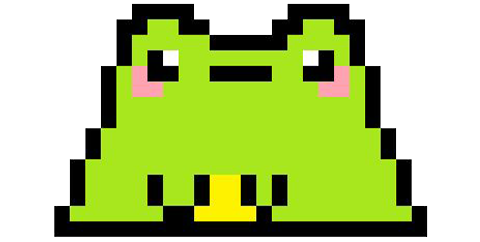
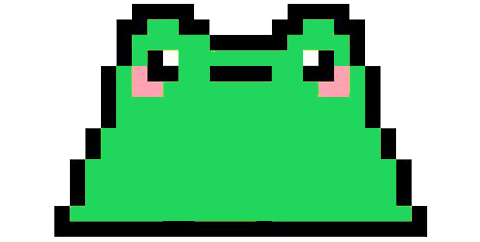
Filling out the README.md

diff --git a/mod-jam/js/script.js b/mod-jam/js/script.js
@@ -180,15 +180,16 @@ function drawStartScreen() {
     //Different Options
     noStroke();
     fill("#00eeffff");
-    rect(width / 2 - 100, height / 2 + 60, 200, 40); // Oracle button
+    //rect(x,y,w,h)
+    rect(width / 2 - 150, height / 2 + 60, 300, 40); // Oracle button
     fill("#ff0000ff");
-    rect(width / 2 - 100, height / 2 + 110, 200, 40); // Fortune button
+    rect(width / 2 - 150, height / 2 + 110, 300, 40); // Fortune button
     fill("#ff00e1ff");
-    rect(width / 2 - 100, height / 2 + 160, 200, 40); // Instructions button
+    rect(width / 2 - 150, height / 2 + 160, 300, 40); // Instructions button
     textSize(14);
     fill("#280085ff");
-    text("ORACLE", width / 2, height / 2 + 80);
-    text("FORTUNE", width / 2, height / 2 + 130);
+    text(" GREEK ORACLE", width / 2, height / 2 + 80);
+    text("CHINESE FORTUNE", width / 2, height / 2 + 130);
     text("INSTRUCTIONS", width / 2, height / 2 + 180);
 }
 //DRAWING END SCREEN COMPONENTS
@@ -219,7 +220,7 @@ function drawScore() {
     }
 
     //Drawing Score Bar
-    fill("#fffb00ff");
+    fill("#12db59ff");
     rect(30, 30, fillWidth, barHeight);
     noFill();
     stroke("#000000ff");
@@ -384,7 +385,7 @@ function moveTongue() {
 function drawFrog() {
     // Draw the tongue tip
     push();
-    fill("#ff0000");
+    fill("#ffffffff");
     noStroke();
     ellipse(frog.tongue.x, frog.tongue.y, frog.tongue.size);
     pop();

diff --git a/mod-jam/README.md b/mod-jam/README.md
@@ -1,35 +1,65 @@
-# TITLE OF PROJECT
+# FROG OF DESTINY
 
-AUTHOR NAME
+CAMELIA PITSILIS
 
 [View this project online](URL_FOR_THE_RUNNING_PROJECT)
 
 ## Description
 
-This description should help the reader understand what the program is, anything they should know to be able to experience it (controls, special features, etc.), and what the desired user experience is. For example:
+Frog of Destiny is a myth-inspired, frog tongue catching game where the player controls a
+mystical frog that seeks either wisdom or fortune.
 
-> *The Mayor of Clown Town* is a simulator experience that allows the user to control a small town populated entirely by clowns.
+ There are two modes: Greek Oracle and Chinese Fortune.
 
-> The experience is controlled via the mouse, with left click selecting a clown and bringing up a menu of options such as "slip of banana peel" or "get into impossible capacious clown-car."
+ In Ancient Greek mythology, frogs were often associated with prophecy. So in the game Greek Oracle Frog Game,
+ there will be two types of flying prophetical orbs: Golden Truthful Prophecies and Purple False Prophecies.
+ The Frog will have to eat the Golden Truthful Prophecies to gain as many Wisdom Points before the time ends.
+ If the Frog eats the Purple False Prophecies, the frog dies.
+ 
+ In Chinese Mythology, Chan Chu (蟾蜍) is the Three-Legged Mythical Frog that brings fortune.
+ So in the Chinese Fortune Frog Game, the frog will have to catch as many Golden Coins as possible
+ before the time runs out. However, if the frog catches the Golden Coins too quickly, he will lose
+ Fortune Points because of greed.
+ 
+ Instructions:
+ - Move the frog with your mouse
+ - Click to launch the tongue
+ - Catch object
 
-> The project is meant to give the user a sense of what it would be the mayor of a town of clowns, eventually getting the sense that clowns are not taking their civic duties seriously.
+MY CONTRIBUTIONS TO THE CODE:
+ - Added different game states: start, oracle, fortune, instructions, end.
+ - Added title screen with clickable buttons to select game mode.
+ - Added an instructions screen.
+ - Added two game modes:
+    - Oracle Mode: Catch golden orbs, avoid purple orbs; scoring with wisdomPoints.
+    - Fortune Mode: Catch coins; greed penalty decreases fortunePoints if catching too fast.
+ - Added ending screens with different messages per mode.
+ - Added scoring bars with dynamic filling based on points.
+ - Added multiple flying objects per mode with varying speeds and reset positions.
+ - Replaced frog ellipse with frog image.
+ - Added custom font and visual design for UI.
+ - Added dynamic messages (greed penalty, end message).
+ 
 
 ## Screenshot(s)
 
-This bit should have some images of the program running so that the reader has a sense of what it looks like. For example:
-
-> ![Image of a clown face](./assets/images/clown.png)
+> ![Image of game start screen](./assets/images/startscreen_game.png)
+> ![Image of greek oracle game mode](./assets/images/oracle_game.png)
+> ![Image of chinese fortune game mode](./assets/images/fortune_game.png)
 
 ## Attribution
 
-This bit should attribute any code, assets or other elements used taken from other sources. For example:
-
 > - This project uses [p5.js](https://p5js.org).
-> - The clown image is a capture of the clown from the Apple emoji character set.
-> - The barking sound effect is "single dog bark 1" by crazymonke9 from freesound.org: https://freesound.org/people/crazymonke9/sounds/418107/
 
-## License
+> - The background of the start screen was made by user3679043 from freepick.com: https://www.freepik.com/premium-vector/
+abstract-retro-pixel-art-80s-background-eps-10-vector-graphics_18568568.htm?epik=dj0yJnU9cklDOTBFUEtrbEdmNDZ6Q3lLWHl6XzZVYzRGWVdRdmcmcD0wJm49cTlVOG5fZnZBSVRoVUsyd3ZEcloxZyZ0PUFBQUFBR2tNSEVZ
 
-This bit should include the license you want to apply to your work. For example:
+> - The background of the greek oracle mode was taken from tumblr: https://24.media.tumblr.com/tumblr_md0g8pEBPX1qbzzgco1_500.png
 
-> This project is licensed under a Creative Commons Attribution ([CC BY 4.0](https://creativecommons.org/licenses/by/4.0/deed.en)) license with the exception of libraries and other components with their own licenses.
+> - The background of the chinese fortune mode was taken from pinterest: https://uk.pinterest.com/pin/758152918542245462/
+
+> - The coins in the chinese fortune mode was downloaded from nicepng.com :https://www.nicepng.com/ourpic/u2w7a9e6r5r5i1y3_8-bit-mario-coin-mario-coin-pixel/
+
+> - The golden & purple prophecies from the greek oracle mode was made by the handsomeunicorn from thehandsomeunicorn.itch.io :https://handsomeunicorn.itch.io/fireball-sprite
+
+> - A lot of the code was taken or inspired by Pippin Barr from https://pippinbarr.com/cart253
